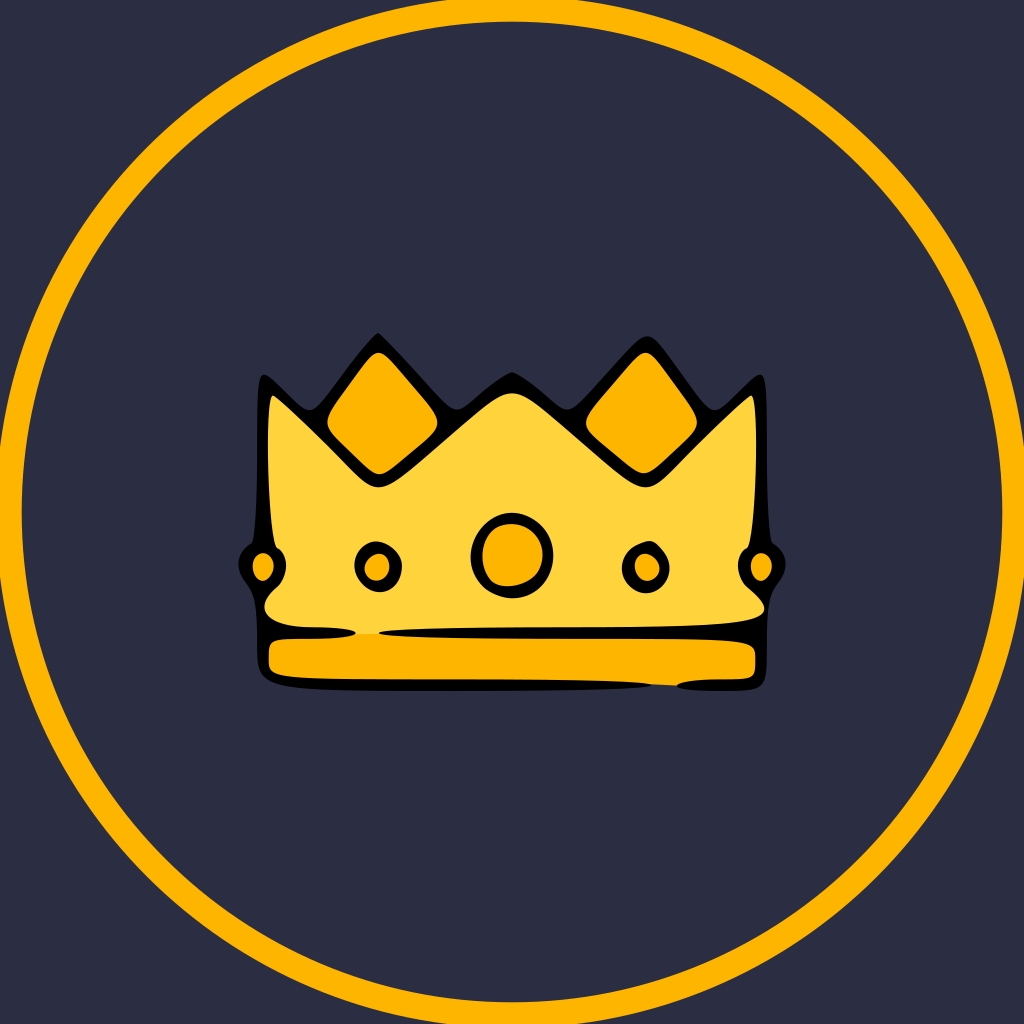
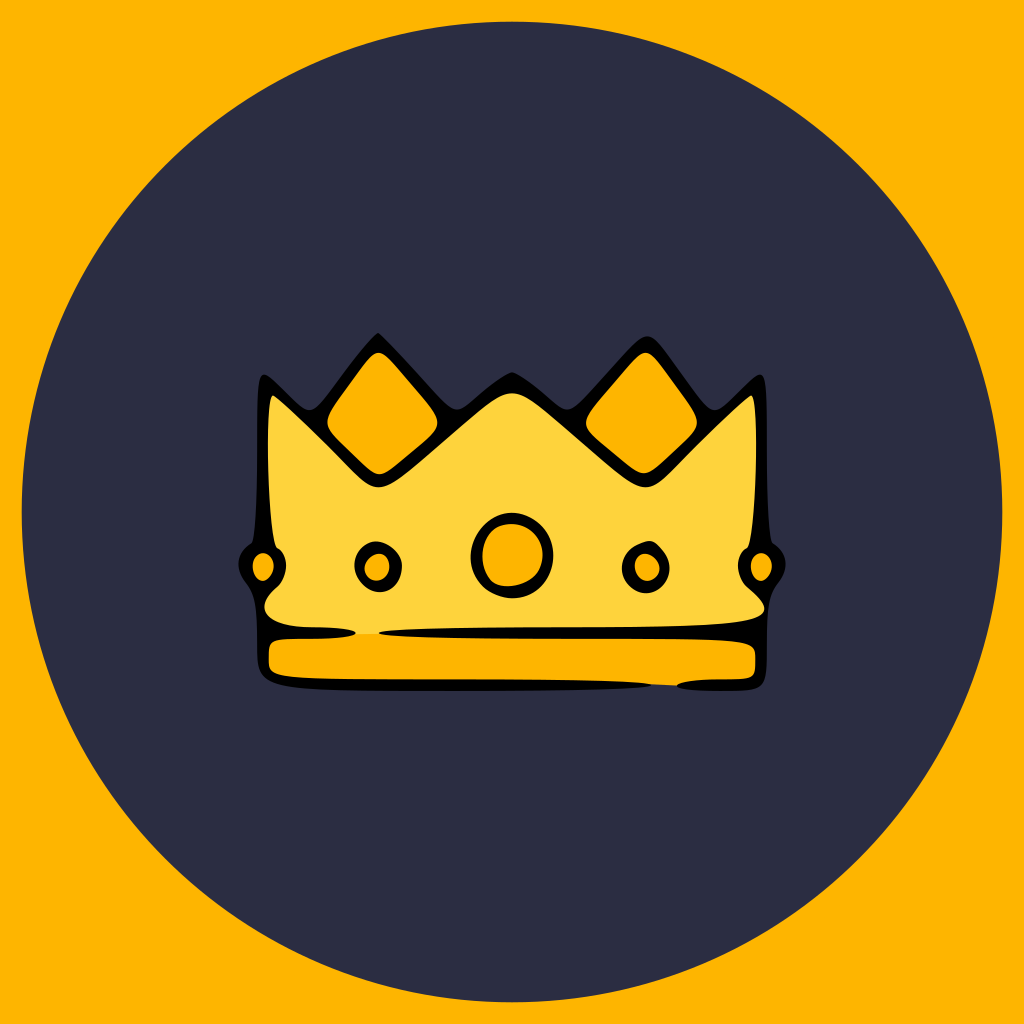
Added Database Schema (#53)
* update icon

* update deps

diff --git a/src/config.ts b/src/config.ts
@@ -1,4 +1,6 @@
-import { load as Dotenv } from 'https://deno.land/std@0.173.0/dotenv/mod.ts';
+import mongo from 'https://raw.githubusercontent.com/ker0olos/mongo/v1.0.2/mod.ts';
+
+import { load as Dotenv } from 'https://deno.land/std@0.175.0/dotenv/mod.ts';
 
 // export const colors = {
 //   background: '#2b2d42',
@@ -16,14 +18,18 @@ const config: {
   deploy: boolean;
   appId?: string;
   publicKey?: string;
-  mongoUrl?: string;
+  mongoCluster?: string;
+  mongoEndpoint?: string;
+  mongoApiKey?: string;
   sentry?: string;
   origin?: string;
 } = {
   deploy: false,
   appId: undefined,
   publicKey: undefined,
-  mongoUrl: undefined,
+  mongoCluster: undefined,
+  mongoEndpoint: undefined,
+  mongoApiKey: undefined,
   sentry: undefined,
   origin: undefined,
 };
@@ -32,14 +38,12 @@ export async function initConfig(): Promise<void> {
   const query = await Deno.permissions.query({ name: 'env' });
 
   if (query?.state === 'granted') {
-    try {
-      // load .env file
-      await Dotenv({ export: true, allowEmptyValues: true });
-    } catch {
-      //
-    }
-
     config.deploy = !!Deno.env.get('DENO_DEPLOYMENT_ID');
+
+    // load .env file
+    if (!config.deploy) {
+      await Dotenv({ export: true, allowEmptyValues: true });
+    }
 
     config.sentry = Deno.env.get('SENTRY_DSN');
 
@@ -47,7 +51,17 @@ export async function initConfig(): Promise<void> {
 
     config.publicKey = Deno.env.get('PUBLIC_KEY');
 
-    config.mongoUrl = Deno.env.get('MONGO_URL');
+    config.mongoCluster = Deno.env.get('MONGO_CLUSTER');
+    config.mongoEndpoint = Deno.env.get('MONGO_ENDPOINT');
+    config.mongoApiKey = Deno.env.get('MONGO_API_KEY');
+
+    if (config.mongoCluster && config.mongoEndpoint && config.mongoApiKey) {
+      mongo.credentials({
+        dataSource: config.mongoCluster,
+        endpoint: config.mongoEndpoint,
+        apiKey: config.mongoApiKey,
+      });
+    }
 
     config.origin = undefined;
   }

diff --git a/tests/config.test.ts b/tests/config.test.ts
@@ -1,11 +1,11 @@
 // deno-lint-ignore-file no-explicit-any
 
-import { assertEquals } from 'https://deno.land/std@0.173.0/testing/asserts.ts';
+import { assertEquals } from 'https://deno.land/std@0.175.0/testing/asserts.ts';
 
 import {
   returnsNext,
   stub,
-} from 'https://deno.land/std@0.173.0/testing/mock.ts';
+} from 'https://deno.land/std@0.175.0/testing/mock.ts';
 
 import config, { clearConfig, initConfig } from '../src/config.ts';
 
@@ -31,7 +31,9 @@ Deno.test('init', async (test) => {
         'sentry_dsn',
         'app_id',
         'public_key',
-        'mongo_url',
+        'mongo_cluster',
+        'mongo_endpoint',
+        'mongo_api_key',
       ]),
     );
 
@@ -42,7 +44,9 @@ Deno.test('init', async (test) => {
         deploy: false,
         appId: 'app_id',
         publicKey: 'public_key',
-        mongoUrl: 'mongo_url',
+        mongoCluster: 'mongo_cluster',
+        mongoEndpoint: 'mongo_endpoint',
+        mongoApiKey: 'mongo_api_key',
         sentry: 'sentry_dsn',
         origin: undefined,
       });
@@ -75,7 +79,9 @@ Deno.test('init', async (test) => {
         'sentry_dsn',
         'app_id',
         'public_key',
-        'mongo_url',
+        'mongo_cluster',
+        'mongo_endpoint',
+        'mongo_api_key',
       ]),
     );
 
@@ -86,7 +92,9 @@ Deno.test('init', async (test) => {
         deploy: true,
         appId: 'app_id',
         publicKey: 'public_key',
-        mongoUrl: 'mongo_url',
+        mongoCluster: 'mongo_cluster',
+        mongoEndpoint: 'mongo_endpoint',
+        mongoApiKey: 'mongo_api_key',
         sentry: 'sentry_dsn',
         origin: undefined,
       });

diff --git a/tests/utils.test.ts b/tests/utils.test.ts
@@ -4,14 +4,14 @@ import {
   assert,
   assertEquals,
   assertThrows,
-} from 'https://deno.land/std@0.173.0/testing/asserts.ts';
+} from 'https://deno.land/std@0.175.0/testing/asserts.ts';
 
 import {
   assertSpyCall,
   assertSpyCalls,
   returnsNext,
   stub,
-} from 'https://deno.land/std@0.173.0/testing/mock.ts';
+} from 'https://deno.land/std@0.175.0/testing/mock.ts';
 
 import * as imagescript from 'https://deno.land/x/imagescript@1.2.15/mod.ts';
 
@@ -224,6 +224,24 @@ Deno.test('decode description', async (test) => {
     assertEquals(utils.decodeDescription('~!abc!~'), '');
     assertEquals(utils.decodeDescription('||abc||'), '');
   });
+});
+
+Deno.test('read json', async () => {
+  const readTextStub = stub(
+    Deno,
+    'readTextFile',
+    () => Promise.resolve('{"data": "abc"}'),
+  );
+
+  try {
+    const data = await utils.readJson('');
+
+    assertEquals(data, {
+      data: 'abc',
+    });
+  } finally {
+    readTextStub.restore();
+  }
 });
 
 Deno.test('external images', async (test) => {

diff --git a/src/validate.ts b/src/validate.ts
@@ -2,7 +2,7 @@
 
 import Ajv from 'https://esm.sh/ajv@8.12.0';
 
-import { bold, red } from 'https://deno.land/std@0.173.0/fmt/colors.ts';
+import { bold, red } from 'https://deno.land/std@0.175.0/fmt/colors.ts';
 
 import alias from '../json/alias.json' assert {
   type: 'json',
@@ -28,7 +28,7 @@ import builtin from '../schema.builtin.json' assert {
   type: 'json',
 };
 
-import { AssertionError } from 'https://deno.land/std@0.173.0/testing/asserts.ts';
+import { AssertionError } from 'https://deno.land/std@0.175.0/testing/asserts.ts';
 
 const _v = new Ajv({ strict: false, allErrors: true })
   .addSchema(alias)

diff --git a/tests/interactions.test.ts b/tests/interactions.test.ts
@@ -3,16 +3,16 @@
 import {
   assertEquals,
   assertRejects,
-} from 'https://deno.land/std@0.173.0/testing/asserts.ts';
+} from 'https://deno.land/std@0.175.0/testing/asserts.ts';
 
 import {
   assertSpyCall,
   assertSpyCalls,
   returnsNext,
   stub,
-} from 'https://deno.land/std@0.173.0/testing/mock.ts';
+} from 'https://deno.land/std@0.175.0/testing/mock.ts';
 
-import { FakeTime } from 'https://deno.land/std@0.173.0/testing/time.ts';
+import { FakeTime } from 'https://deno.land/std@0.175.0/testing/time.ts';
 
 import packs from '../src/packs.ts';
 

diff --git a/models/guild.ts b/models/guild.ts
@@ -1,0 +1,25 @@
+import mongo from 'https://raw.githubusercontent.com/ker0olos/mongo/v1.0.2/mod.ts';
+
+interface Guild {
+  /**
+   * discord guild id
+   */
+  id: string;
+  /**
+   * A list of discord user ids
+   */
+  users: string[];
+}
+
+const schema = mongo.schema<Guild>({
+  id: {
+    type: String,
+    required: true,
+  },
+  users: {
+    type: [String],
+    default: [],
+  },
+});
+
+export default mongo.model<Guild>('guilds', schema);

diff --git a/models/user.ts b/models/user.ts
@@ -1,0 +1,25 @@
+import mongo from 'https://raw.githubusercontent.com/ker0olos/mongo/v1.0.2/mod.ts';
+
+interface User {
+  /**
+   * discord user id
+   */
+  id: string;
+  /**
+   * A list of discord guild ids
+   */
+  guilds: string[];
+}
+
+const schema = mongo.schema<User>({
+  id: {
+    type: String,
+    required: true,
+  },
+  guilds: {
+    type: [String],
+    default: [],
+  },
+});
+
+export default mongo.model<User>('users', schema);

diff --git a/tests/gacha.test.ts b/tests/gacha.test.ts
@@ -2,14 +2,14 @@ import {
   assertEquals,
   assertRejects,
   assertThrows,
-} from 'https://deno.land/std@0.173.0/testing/asserts.ts';
+} from 'https://deno.land/std@0.175.0/testing/asserts.ts';
 
 import {
   assertSpyCalls,
   returnsNext,
   Stub,
   stub,
-} from 'https://deno.land/std@0.173.0/testing/mock.ts';
+} from 'https://deno.land/std@0.175.0/testing/mock.ts';
 
 import utils from '../src/utils.ts';
 import gacha from '../src/gacha.ts';

diff --git a/tests/packs.test.ts b/tests/packs.test.ts
@@ -4,12 +4,12 @@ import {
   assert,
   assertEquals,
   assertObjectMatch,
-} from 'https://deno.land/std@0.173.0/testing/asserts.ts';
+} from 'https://deno.land/std@0.175.0/testing/asserts.ts';
 
 import {
   assertSpyCalls,
   stub,
-} from 'https://deno.land/std@0.173.0/testing/mock.ts';
+} from 'https://deno.land/std@0.175.0/testing/mock.ts';
 
 import { assertValidManifest } from '../src/validate.ts';
 

diff --git a/tests/discord.test.ts b/tests/discord.test.ts
@@ -3,13 +3,13 @@
 import {
   assert,
   assertEquals,
-} from 'https://deno.land/std@0.173.0/testing/asserts.ts';
+} from 'https://deno.land/std@0.175.0/testing/asserts.ts';
 
 import {
   assertSpyCall,
   assertSpyCalls,
   stub,
-} from 'https://deno.land/std@0.173.0/testing/mock.ts';
+} from 'https://deno.land/std@0.175.0/testing/mock.ts';
 
 import * as discord from '../src/discord.ts';
 

diff --git a/tests/github.test.ts b/tests/github.test.ts
@@ -1,13 +1,13 @@
 import {
   assertEquals,
   assertRejects,
-} from 'https://deno.land/std@0.173.0/testing/asserts.ts';
+} from 'https://deno.land/std@0.175.0/testing/asserts.ts';
 
 import {
   assertSpyCall,
   assertSpyCalls,
   stub,
-} from 'https://deno.land/std@0.173.0/testing/mock.ts';
+} from 'https://deno.land/std@0.175.0/testing/mock.ts';
 
 import github from '../src/github.ts';
 

diff --git a/tests/anilist.test.ts b/tests/anilist.test.ts
@@ -1,12 +1,12 @@
 import {
   assertEquals,
   assertRejects,
-} from 'https://deno.land/std@0.173.0/testing/asserts.ts';
+} from 'https://deno.land/std@0.175.0/testing/asserts.ts';
 
 import {
   assertSpyCalls,
   stub,
-} from 'https://deno.land/std@0.173.0/testing/mock.ts';
+} from 'https://deno.land/std@0.175.0/testing/mock.ts';
 
 import * as anilist from '../packs/anilist/index.ts';
 
